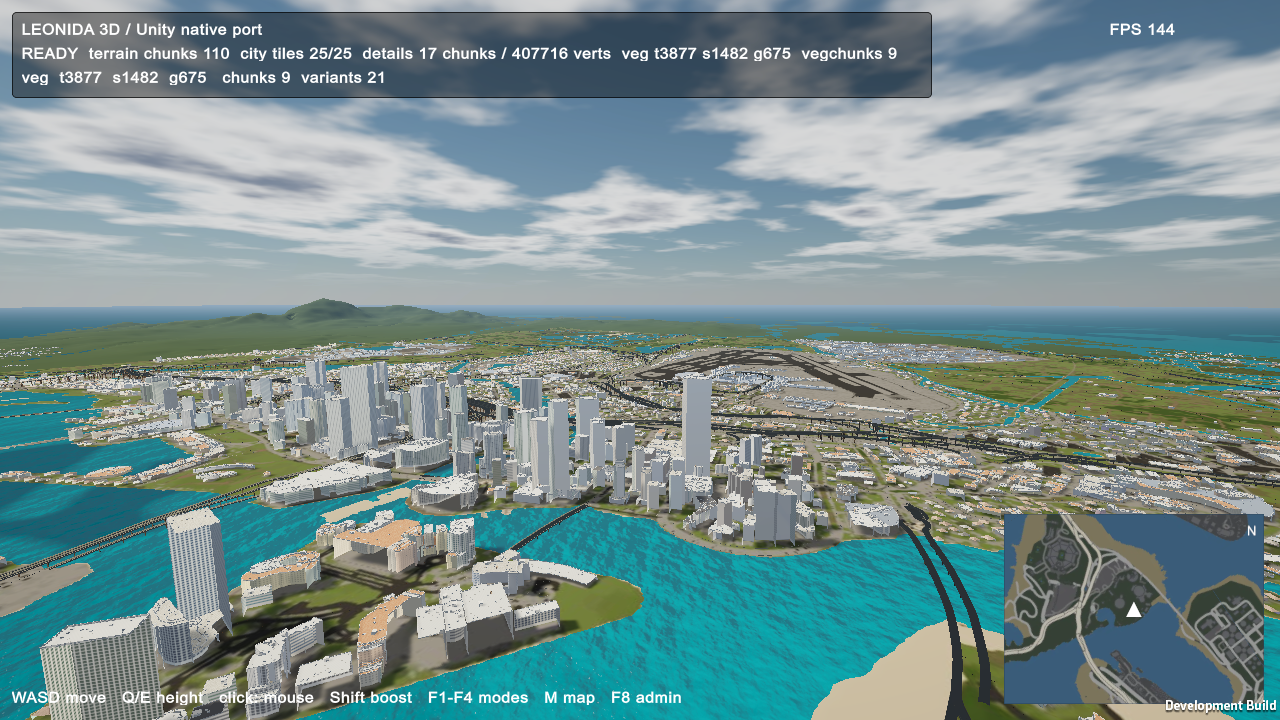
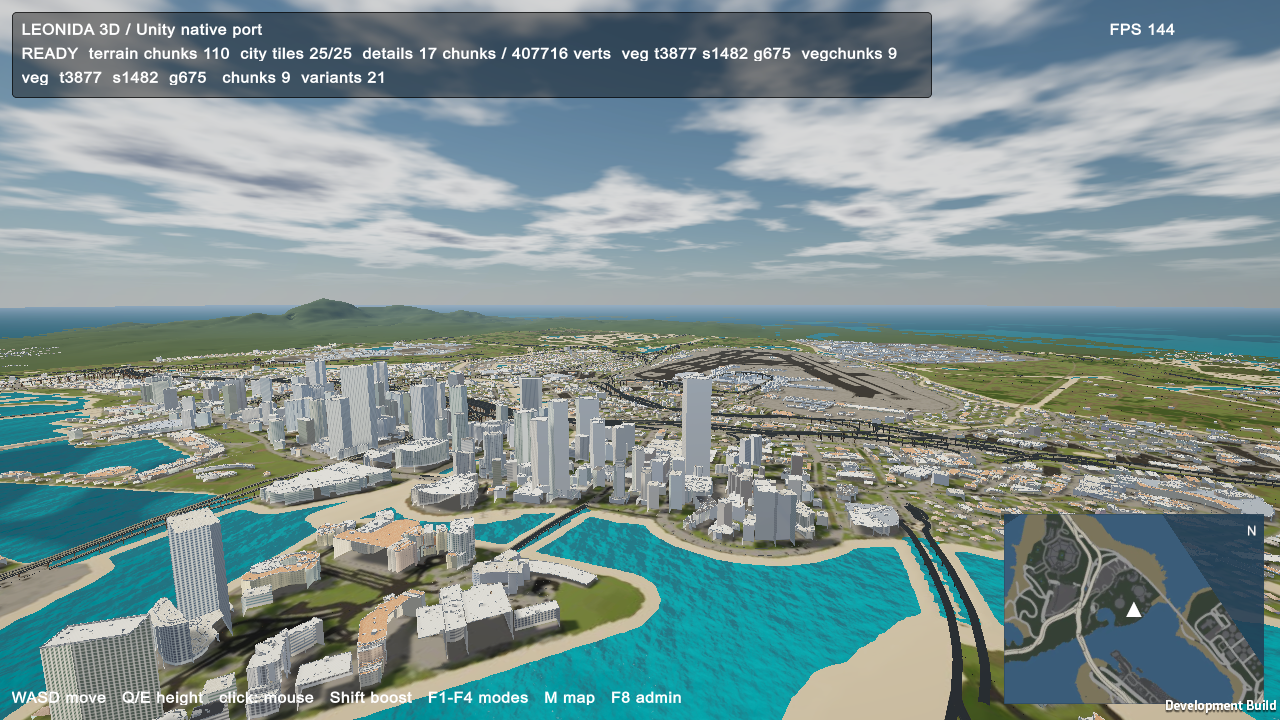
Unity: direct start, Gerstner waves, shoreline foam and lazy radar tiles

diff --git a/unity/Assets/Leonida/Runtime/LeonidaRadarUI.cs b/unity/Assets/Leonida/Runtime/LeonidaRadarUI.cs
@@ -17,8 +17,10 @@ namespace Leonida
         readonly List<RawImage> _tiles = new List<RawImage>();
         readonly List<Vector2> _tileMap = new List<Vector2>();
         readonly List<float> _tileSize = new List<float>();
+        readonly List<string> _tileKeys = new List<string>();
 
         const float W = 260f, H = 190f;
+        int _loadsThisFrame;
 
         public void Init(Camera cam, LeonidaManifest m, Dictionary<string, Texture2D> tiles, LeonidaMapUI owner)
         {
@@ -49,19 +51,21 @@ namespace Leonida
             _mapRoot.anchoredPosition = Vector2.zero;
             _mapRoot.sizeDelta = new Vector2(W, H);
 
-            foreach (var kv in tiles)
+            var keys = tiles != null && tiles.Count > 0 ? new List<string>(tiles.Keys) : new List<string>(m.minimap.tiles);
+            foreach (string key in keys)
             {
-                string[] p = kv.Key.Split('_');
+                string[] p = key.Split('_');
                 if (p.Length != 2 || !int.TryParse(p[0], out int i) || !int.TryParse(p[1], out int j)) continue;
-                var tileGo = new GameObject("MM_" + kv.Key);
+                var tileGo = new GameObject("MM_" + key);
                 var rt = tileGo.AddComponent<RectTransform>();
                 rt.SetParent(_mapRoot, false);
                 rt.anchorMin = rt.anchorMax = new Vector2(0.5f, 0.5f);
                 rt.pivot = new Vector2(0.5f, 0.5f);
                 var raw = tileGo.AddComponent<RawImage>();
-                raw.texture = kv.Value;
+                raw.texture = tiles != null && tiles.TryGetValue(key, out var tex) ? tex : null;
                 raw.raycastTarget = false;
                 _tiles.Add(raw);
+                _tileKeys.Add(key);
                 _tileMap.Add(new Vector2(
                     m.west + i * m.chunk + m.chunk * 0.5f,
                     m.north - j * m.chunk - m.chunk * 0.5f));
@@ -114,6 +118,7 @@ namespace Leonida
             float camNorth = -p.z;
 
             float mapAngle = (map != null && !map.RadarFlip) ? -heading : heading;
+            _loadsThisFrame = 0;
             _mapRoot.localRotation = Quaternion.Euler(0f, 0f, mapAngle);
             _mapRoot.sizeDelta = new Vector2(w, h);
 
@@ -123,8 +128,15 @@ namespace Leonida
                 float size = _tileSize[k] / mpp;
                 var rt = _tiles[k].rectTransform;
                 rt.sizeDelta = new Vector2(size, size);
-                rt.anchoredPosition = new Vector2((mapPos.x - p.x) / mpp, (mapPos.y - camNorth) / mpp);
-                _tiles[k].enabled = size > 0.5f;
+                Vector2 anchored = new Vector2((mapPos.x - p.x) / mpp, (mapPos.y - camNorth) / mpp);
+                rt.anchoredPosition = anchored;
+                bool inView = Mathf.Abs(anchored.x) < w * 0.75f && Mathf.Abs(anchored.y) < h * 0.75f;
+                if (inView && _tiles[k].texture == null && _loadsThisFrame < 1)
+                {
+                    _tiles[k].texture = Resources.Load<Texture2D>("Minimap/mm_" + _tileKeys[k]);
+                    _loadsThisFrame++;
+                }
+                _tiles[k].enabled = _tiles[k].texture != null && size > 0.5f;
             }
 
             float hrad = mapAngle * Mathf.Deg2Rad;

diff --git a/unity/Assets/Leonida/Runtime/LeonidaOcean.cs b/unity/Assets/Leonida/Runtime/LeonidaOcean.cs
@@ -1,0 +1,78 @@
+using UnityEngine;
+
+namespace Leonida
+{
+    /// <summary>High-density Gerstner wave grid around the camera; flat far plane underneath.</summary>
+    public class LeonidaOcean : MonoBehaviour
+    {
+        public Camera cam;
+        public Material material;
+        public float size = 4000f;
+        public int segments = 384;
+
+        Mesh _mesh;
+
+        public void Init(Camera camera, Material mat)
+        {
+            cam = camera;
+            material = mat;
+            Build();
+        }
+
+        void Build()
+        {
+            int n = segments + 1;
+            var verts = new Vector3[n * n];
+            var normals = new Vector3[n * n];
+            var uvs = new Vector2[n * n];
+            float step = size / segments, half = size * 0.5f;
+            for (int z = 0; z < n; z++)
+            {
+                for (int x = 0; x < n; x++)
+                {
+                    int i = z * n + x;
+                    verts[i] = new Vector3(-half + x * step, 0f, -half + z * step);
+                    normals[i] = Vector3.up;
+                    uvs[i] = new Vector2((float)x / segments, (float)z / segments);
+                }
+            }
+
+            var tris = new int[segments * segments * 6];
+            int t = 0;
+            for (int z = 0; z < segments; z++)
+            {
+                for (int x = 0; x < segments; x++)
+                {
+                    int i = z * n + x;
+                    tris[t++] = i; tris[t++] = i + n; tris[t++] = i + 1;
+                    tris[t++] = i + 1; tris[t++] = i + n; tris[t++] = i + n + 1;
+                }
+            }
+
+            _mesh = new Mesh { name = "OceanWaves" };
+            _mesh.indexFormat = UnityEngine.Rendering.IndexFormat.UInt32;
+            _mesh.vertices = verts;
+            _mesh.normals = normals;
+            _mesh.uv = uvs;
+            _mesh.triangles = tris;
+            _mesh.RecalculateBounds();
+
+            var go = new GameObject("OceanWaveMesh");
+            go.transform.SetParent(transform, false);
+            var filter = go.AddComponent<MeshFilter>();
+            filter.sharedMesh = _mesh;
+            var renderer = go.AddComponent<MeshRenderer>();
+            renderer.sharedMaterial = material;
+            renderer.shadowCastingMode = UnityEngine.Rendering.ShadowCastingMode.Off;
+            renderer.receiveShadows = false;
+        }
+
+        void LateUpdate()
+        {
+            if (cam == null) return;
+            float cell = size / segments;
+            Vector3 p = cam.transform.position;
+            transform.position = new Vector3(Mathf.Floor(p.x / cell) * cell, 0.06f, Mathf.Floor(p.z / cell) * cell);
+        }
+    }
+}

diff --git a/unity/Assets/Leonida/Runtime/LeonidaMaterials.cs b/unity/Assets/Leonida/Runtime/LeonidaMaterials.cs
@@ -184,6 +184,28 @@ namespace Leonida
             if (m.HasProperty("_SpecStrength")) m.SetFloat("_SpecStrength", 0.55f);
             if (m.HasProperty("_NormalStrength")) m.SetFloat("_NormalStrength", 0.35f);
             if (m.HasProperty("_WaveScale")) m.SetFloat("_WaveScale", 0.006f);
+            if (m.HasProperty("_WaveAmp")) m.SetFloat("_WaveAmp", 1f);
+            m.enableInstancing = true;
+            Cache[key] = m;
+            return m;
+        }
+
+        static Material WaterFlat()
+        {
+            const string key = "WaterFlat";
+            if (Cache.TryGetValue(key, out var cached)) return cached;
+            var baseMat = Resources.Load<Material>("Water");
+            Material m;
+            if (baseMat != null) m = new Material(baseMat);
+            else
+            {
+                var shader = Shader.Find("Leonida/Water");
+                m = shader != null ? new Material(shader) : Lit(key, new Color(0.05f, 0.24f, 0.34f), 0.9f);
+            }
+            m.name = key;
+            if (m.HasProperty("_WaveAmp")) m.SetFloat("_WaveAmp", 0f);
+            if (m.HasProperty("_ShallowColor")) m.SetColor("_ShallowColor", new Color(0.13f, 0.60f, 0.66f, 1f));
+            if (m.HasProperty("_DeepColor")) m.SetColor("_DeepColor", new Color(0.02f, 0.17f, 0.27f, 1f));
             m.enableInstancing = true;
             Cache[key] = m;
             return m;

diff --git a/unity/Assets/Leonida/Runtime/LeonidaBootstrap.cs b/unity/Assets/Leonida/Runtime/LeonidaBootstrap.cs
@@ -32,12 +32,6 @@ namespace Leonida
         void Awake()
         {
             _cleanMode = Array.IndexOf(Environment.GetCommandLineArgs(), "-clean") >= 0;
-            bool autoStart = Array.IndexOf(Environment.GetCommandLineArgs(), "-autostart") >= 0;
-            if (!_cleanMode && !autoStart)
-            {
-                var menu = gameObject.AddComponent<LeonidaStartMenu>();
-                menu.Init(this);
-            }
         }
         LeonidaVegetation _veg;
         LeonidaMapUI _mapUi;
@@ -252,7 +246,7 @@ namespace Leonida
             if (GameObject.Find("Ocean") != null) return;
             var go = GameObject.CreatePrimitive(PrimitiveType.Plane);
             go.name = "Ocean";
-            go.transform.position = new Vector3(0f, 0.05f, 0f);
+            go.transform.position = new Vector3(0f, -1.2f, 0f);
             go.transform.localScale = new Vector3(6000f, 1f, 6000f);   // 60 km
             var renderer = go.GetComponent<MeshRenderer>();
             renderer.sharedMaterial = LeonidaMaterials.For("Water");

diff --git a/unity/Assets/Leonida/Runtime/LeonidaMapUI.cs b/unity/Assets/Leonida/Runtime/LeonidaMapUI.cs
@@ -29,18 +29,10 @@ namespace Leonida
             _manifest = manifest;
             _map = Resources.Load<Texture2D>("MapFull");
             _tiles.Clear();
-            if (manifest != null && manifest.minimap != null && manifest.minimap.tiles != null)
-            {
-                foreach (string key in manifest.minimap.tiles)
-                {
-                    var tex = Resources.Load<Texture2D>($"Minimap/mm_{key}");
-                    if (tex != null) _tiles[key] = tex;
-                }
-            }
             if (_cam != null && manifest != null)
             {
                 _radarUI = gameObject.AddComponent<LeonidaRadarUI>();
-                _radarUI.Init(_cam, manifest, _tiles, this);
+                _radarUI.Init(_cam, manifest, null, this);
             }
             if (_map == null)
             {
